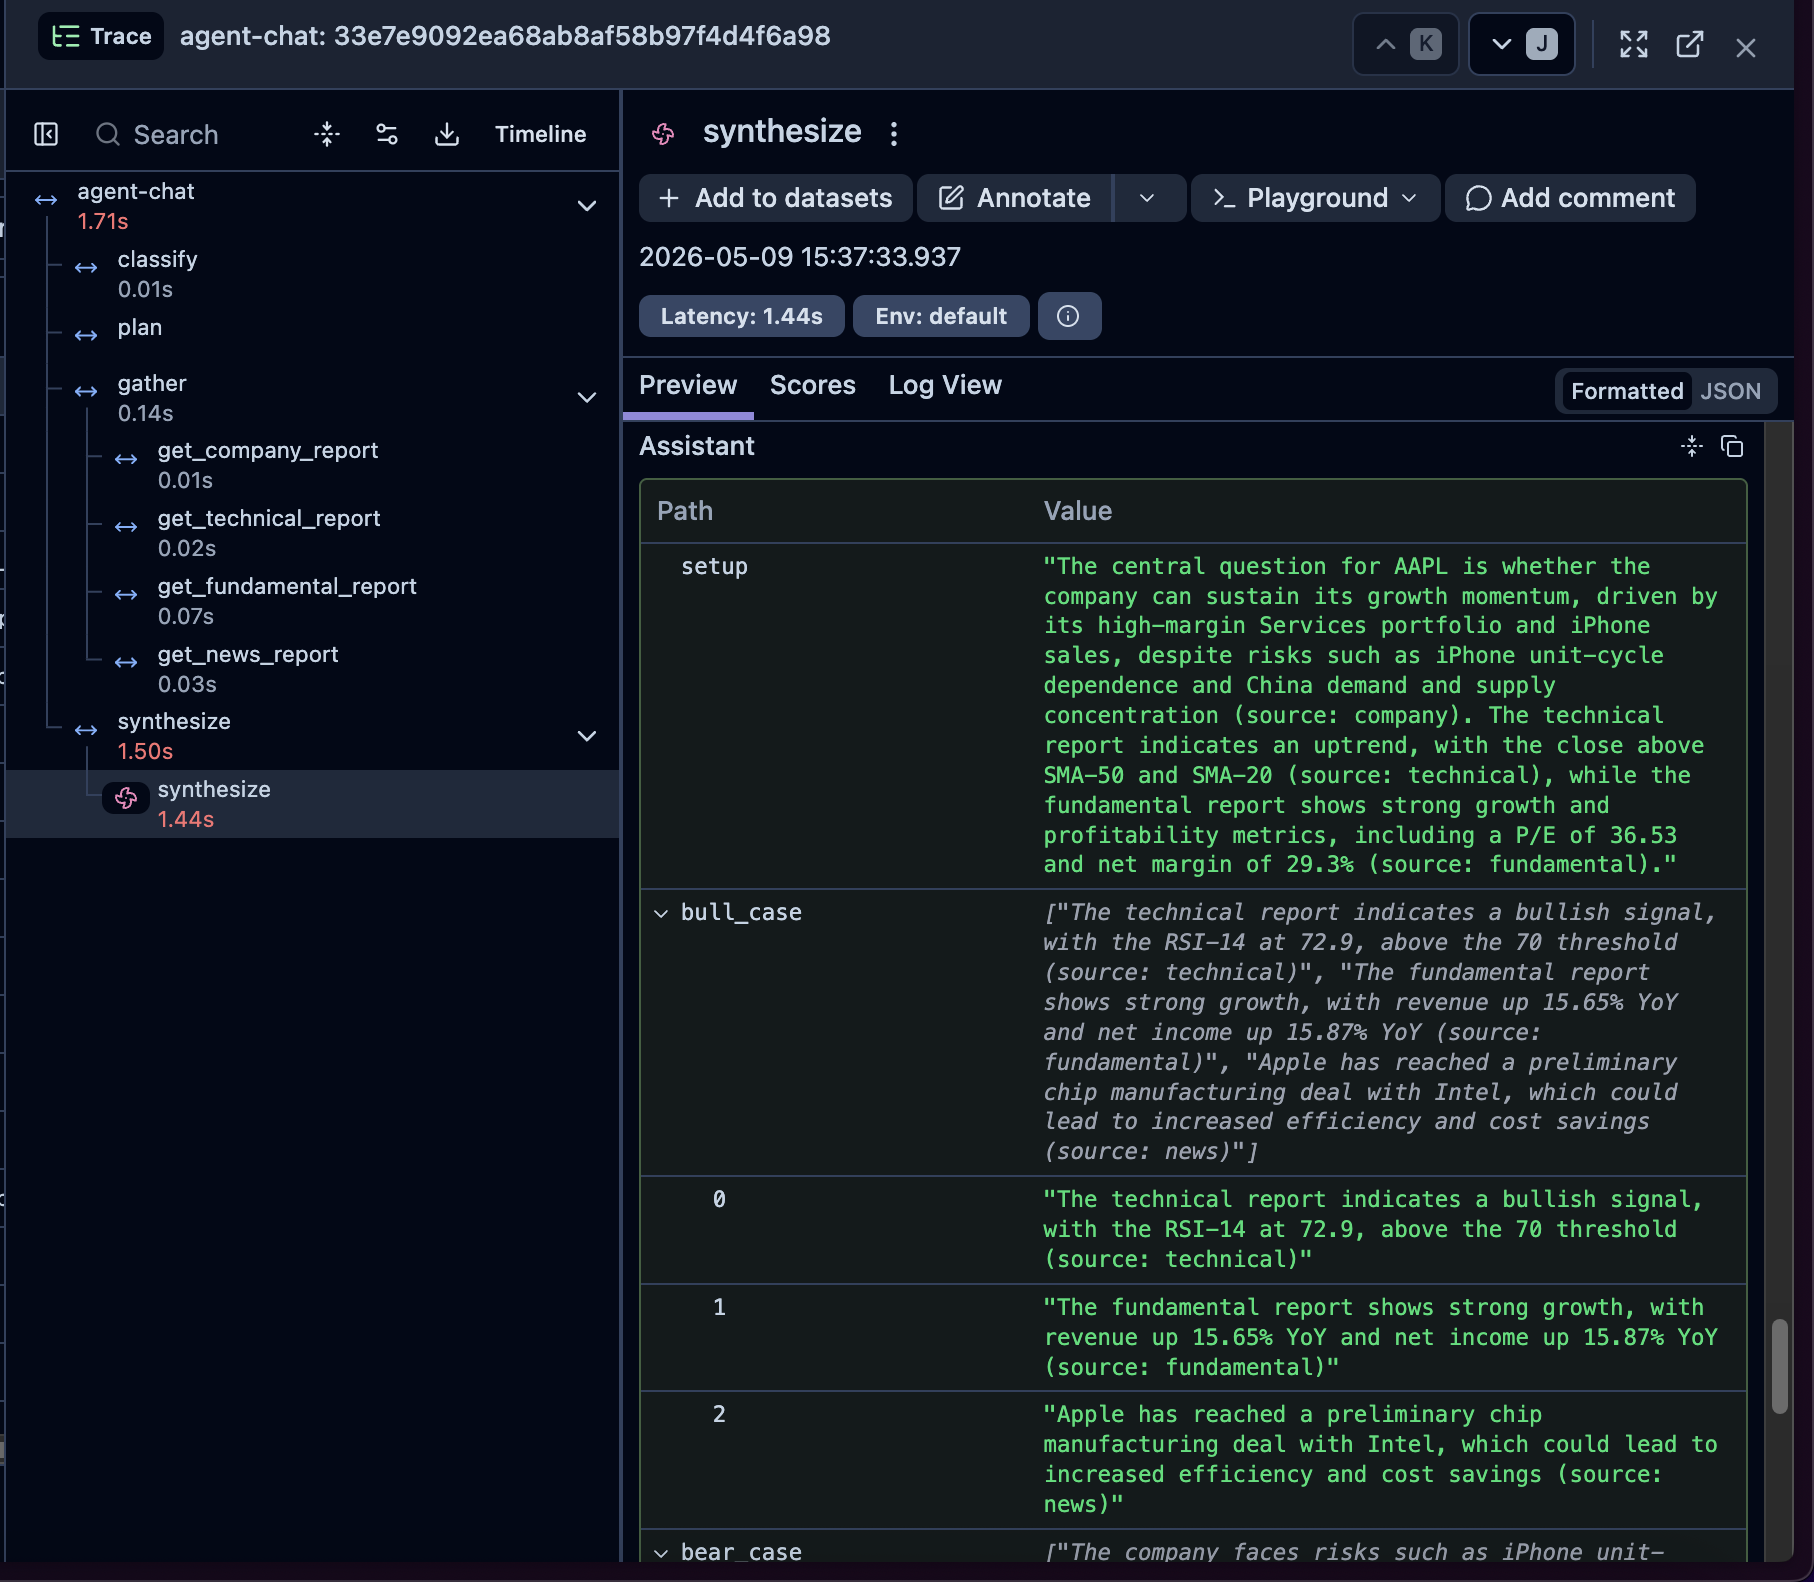
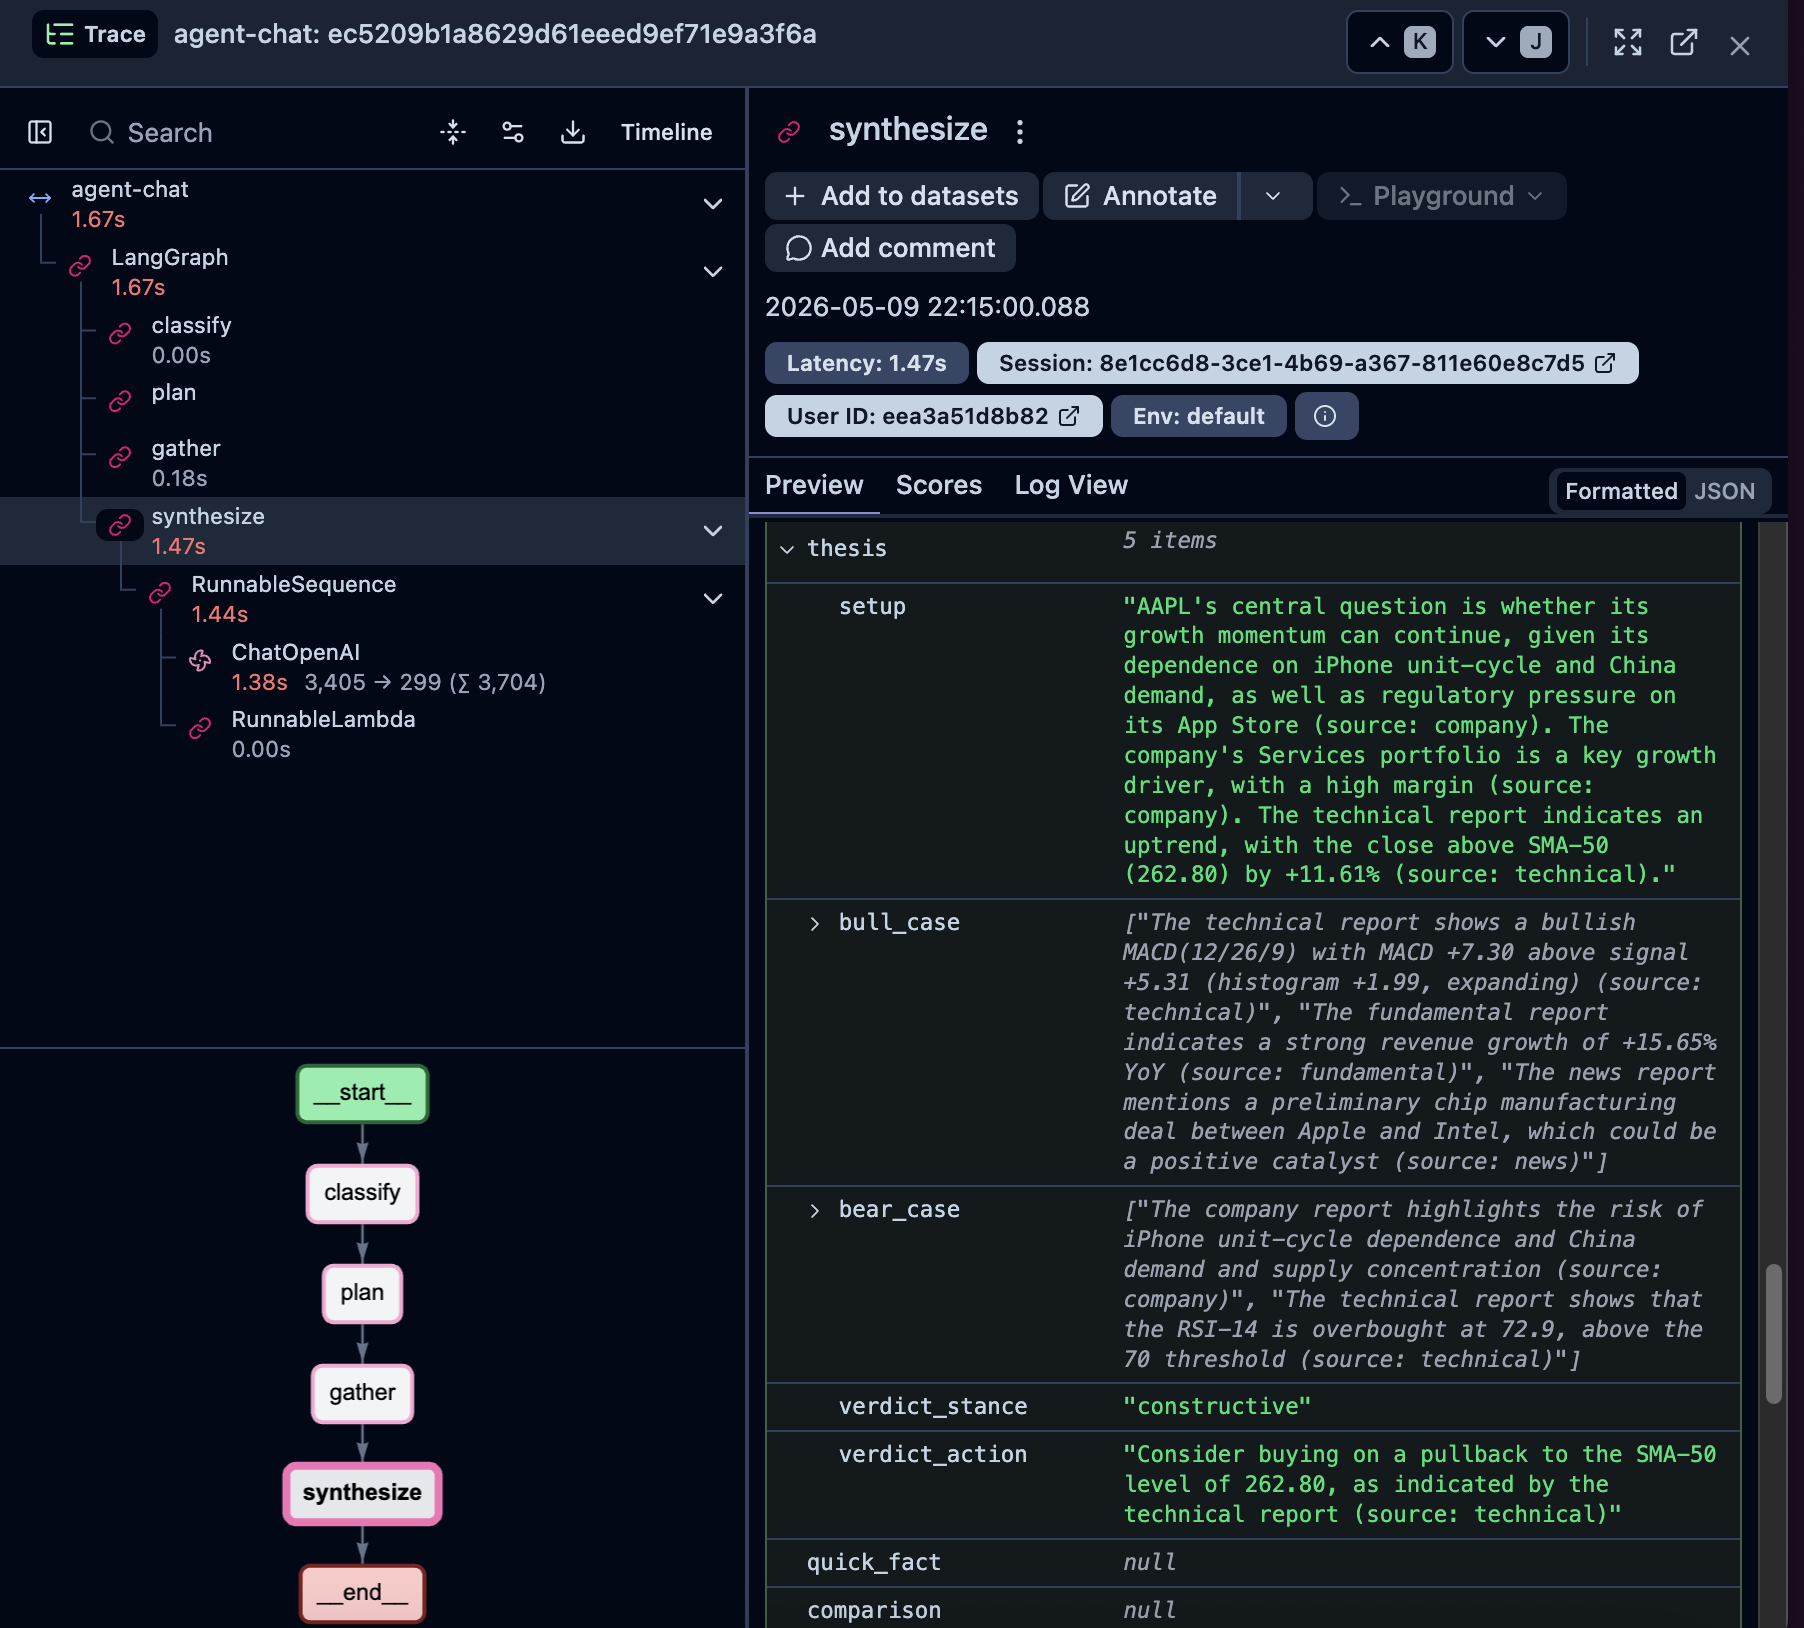
chore: drop LANGFUSE_SAMPLE_RATE + refresh langfuse-trace screenshot (#262)
Follow-up to QNT-181 / ADR-019. PR #259 + the QNT-181 migration already
roughly doubled free-tier headroom (per-chat observations ~12 -> ~6).
The right move for the next billing window is to clear existing traces
in the Langfuse UI and run at full fidelity, not preemptively sample.
Sampling drops debug visibility (1-in-5 traces makes user-complaint
repro hard) for a problem we may not actually have.

- Drop LANGFUSE_SAMPLE_RATE from shared.config + .env.example
- Drop the sample_rate kwarg from Langfuse() construction
- Drop the sample_rate-threading test in test_tracing.py
- ADR-019 records sampling under Alternatives Considered with the
  decision narrative; lever stays a one-line restore when needed

Also folds in a refreshed langfuse-trace.png against the current
trace shape (post-QNT-181, with LangGraph auto-parent visible).

Changed region(s): [[0.0, 0.0, 1.0, 1.0], [0.4656, 0.7124, 0.5277, 0.7434], [0.4656, 0.5575, 0.5277, 0.5885]]

diff --git a/tests/agent/test_tracing.py b/tests/agent/test_tracing.py
@@ -43,7 +43,6 @@ def test_enabled_when_both_keys_present(monkeypatch: pytest.MonkeyPatch) -> None
 
     monkeypatch.setattr(settings, "LANGFUSE_PUBLIC_KEY", "pk-test")
     monkeypatch.setattr(settings, "LANGFUSE_SECRET_KEY", "sk-test")
-    monkeypatch.setattr(settings, "LANGFUSE_SAMPLE_RATE", 1.0)
     monkeypatch.setattr(tracing, "Langfuse", MagicMock(return_value=MagicMock()))
     fake_handler = MagicMock(name="CallbackHandler-instance")
     monkeypatch.setattr(tracing, "CallbackHandler", MagicMock(return_value=fake_handler))
@@ -55,7 +54,6 @@ def test_enabled_when_both_keys_present(monkeypatch: pytest.MonkeyPatch) -> None
         public_key="pk-test",
         secret_key="sk-test",
         base_url=settings.LANGFUSE_BASE_URL,
-        sample_rate=1.0,
     )
 
 
@@ -84,23 +82,6 @@ def test_flush_calls_client_flush_when_enabled(monkeypatch: pytest.MonkeyPatch) 
     monkeypatch.setattr(tracing, "langfuse", fake)
     tracing.flush()
     fake.flush.assert_called_once_with()
-
-
-def test_sample_rate_threaded_through_to_client(monkeypatch: pytest.MonkeyPatch) -> None:
-    """LANGFUSE_SAMPLE_RATE must reach the Langfuse(sample_rate=...) ctor —
-    the prod cost lever depends on it."""
-    from shared.config import settings
-
-    monkeypatch.setattr(settings, "LANGFUSE_PUBLIC_KEY", "pk-test")
-    monkeypatch.setattr(settings, "LANGFUSE_SECRET_KEY", "sk-test")
-    monkeypatch.setattr(settings, "LANGFUSE_SAMPLE_RATE", 0.2)
-    monkeypatch.setattr(tracing, "Langfuse", MagicMock(return_value=MagicMock()))
-
-    tracing._build_client()
-
-    langfuse_ctor = cast(MagicMock, tracing.Langfuse)
-    langfuse_ctor.assert_called_once()
-    assert langfuse_ctor.call_args.kwargs["sample_rate"] == 0.2
 
 
 # ─── Architectural invariant: llm.invoke must carry config= for tracing ─────

diff --git a/packages/shared/src/shared/config.py b/packages/shared/src/shared/config.py
@@ -49,10 +49,6 @@ class Settings(BaseSettings):
     LANGFUSE_PUBLIC_KEY: str = ""
     LANGFUSE_SECRET_KEY: str = ""
     LANGFUSE_BASE_URL: str = "https://us.cloud.langfuse.com"
-    # Trace sampling probability passed to ``Langfuse(sample_rate=...)``.
-    # 1.0 = trace every request (dev / staging); 0.2 = trace 20% (prod cost
-    # control under the 50k/month free tier). 0.0 disables tracing entirely.
-    LANGFUSE_SAMPLE_RATE: float = 1.0
 
     # ─── Alerting (QNT-62 + QNT-101) ─────────────────────────────────────
     # Discord webhook used by docker-events-notify.sh (container die/kill/oom)

diff --git a/packages/agent/src/agent/tracing.py b/packages/agent/src/agent/tracing.py
@@ -35,7 +35,6 @@ def _build_client() -> Langfuse | None:
         public_key=settings.LANGFUSE_PUBLIC_KEY,
         secret_key=settings.LANGFUSE_SECRET_KEY,
         base_url=settings.LANGFUSE_BASE_URL,
-        sample_rate=settings.LANGFUSE_SAMPLE_RATE,
     )
 
 

diff --git a/docs/decisions/019-langfuse-callbackhandler-over-per-node-observe.md b/docs/decisions/019-langfuse-callbackhandler-over-per-node-observe.md
@@ -7,7 +7,7 @@
 
 Phase-5 instrumentation hand-decorated every graph node with `@observe(name=...)` and routed every LLM call through a custom `LangfuseResource.traced_invoke()` wrapper. The wrapper opened an explicit `start_as_current_observation(as_type="generation", ...)` per call, captured prompt / completion / model_name / token usage, and tagged failed spans with `level="ERROR"`. The pattern was internally consistent and let an AST scanner enforce "no raw `llm.invoke()`" at lint time, but it diverged from Langfuse's documented LangGraph integration.
 
-In May 2026 the project hit Langfuse's 50k events / month free-tier ceiling. PR #259 cut volume by env-stripping Langfuse during eval bench runs and dropping `@observe` from the six tool wrappers (HTTP-to-FastAPI calls, not LLM calls). Per-chat observation count dropped from ~12 to ~6. The next structural lever was either to self-host Langfuse on Hetzner (operational surface, ~512 MB extra RAM) or to align with the Langfuse-LangGraph cookbook so we could turn the `sample_rate` knob and tag traces with `session_id` / `user_id` for filterable views.
+In May 2026 the project hit Langfuse's 50k events / month free-tier ceiling. PR #259 cut volume by env-stripping Langfuse during eval bench runs and dropping `@observe` from the six tool wrappers (HTTP-to-FastAPI calls, not LLM calls). Per-chat observation count dropped from ~12 to ~6 — roughly doubling free-tier headroom under the same chat volume. The next structural lever was to align with the Langfuse-LangGraph cookbook so we could tag traces with `session_id` / `user_id` for filterable views, and drop the per-node `@observe` decorator forest in favour of one CallbackHandler at graph entry. (Sampling, the more aggressive cost lever, was considered but deferred — see Alternatives.)
 
 The cookbook pattern is: open a parent trace at the request boundary with `@observe()`, attach a single `CallbackHandler` to the graph at entry via `config={"callbacks": [handler]}`, and let LangGraph propagate the runnable config to every node + every nested LangChain runnable. Generation observations land automatically when each node forwards `config` into its inner `llm.invoke(prompt, config=config)` call.
 
@@ -15,7 +15,7 @@ The cookbook pattern is: open a parent trace at the request boundary with `@obse
 
 Replace the per-node `@observe` decorator forest and the `traced_invoke` wrapper with a single `CallbackHandler` attached at the graph entry point. Concretely:
 
-1. `agent.tracing` shrinks to a thin client + a `make_callback_handler()` factory + re-exports of `observe`, `propagate_attributes`, `get_client` from the Langfuse SDK. `LANGFUSE_SAMPLE_RATE` (default 1.0; prod will set 0.2) is threaded into the `Langfuse(sample_rate=...)` constructor.
+1. `agent.tracing` shrinks to a thin client + a `make_callback_handler()` factory + re-exports of `observe`, `propagate_attributes`, `get_client` from the Langfuse SDK.
 2. Every graph node accepts `(state: AgentState, config: RunnableConfig)`. Inner `llm.invoke()` calls pass `config=config` so the CallbackHandler attached at graph entry propagates through.
 3. The FastAPI `agent_chat._runner` keeps `@observe(name="agent-chat")` as the parent-trace primitive, wraps the `graph.invoke(...)` call with `propagate_attributes(trace_name="agent-chat", session_id=<uuid4>, user_id=sha256(client_ip)[:12])`, and passes `config={"callbacks": [make_callback_handler()]}` to the graph. The CLI `agent.__main__.analyze` follows the same pattern minus session/user tagging (single-shot, no IP).
 4. The architectural invariant moves from "every LLM call goes through `traced_invoke`" to "every LLM call passes `config=` so callbacks propagate". An AST scanner in `tests/agent/test_tracing.py::test_llm_invoke_calls_pass_config_kwarg` enforces it at lint time; a runtime test asserts the kwarg lands on the structured-output stub.
@@ -26,12 +26,13 @@ Net code reduction: `tracing.py` from ~160 to ~68 lines; ~13 `@observe` decorato
 ## Alternatives Considered
 
 * **Keep the per-node `@observe` pattern, sample at the SDK level only.** Cheapest diff, but the structural divergence from the cookbook stays. Future engineers reading the repo would carry the maintenance burden of explaining "why we don't use the documented pattern". Also misses the `propagate_attributes` channel for filterable session/user tags.
-* **Self-host Langfuse on Hetzner.** Free events forever, trades infra cost for an extra container in the obs-smoke gate (~512 MB RAM, another failure surface — `feedback_health_endpoint_is_not_durability.md` is the cautionary tale). Worth doing if `sample_rate=0.2` is still insufficient, not before.
+* **Sampling via `LANGFUSE_SAMPLE_RATE`.** Considered and prototyped during this ticket — `Langfuse(sample_rate=0.2)` would cap incoming events at ~20% of traffic. Reverted before merge: PR #259 + this migration already roughly doubled free-tier headroom (per-chat events ~12 → ~6), and dropping 80% of traces costs real debug visibility on a public demo where any specific user complaint becomes hard to reproduce. Decision: clear existing traces in the Langfuse UI to reset the monthly window, run at full fidelity, and only reintroduce sampling if the next billing window trends past 50k. The lever is a one-line addition to `_build_client` when needed; no point keeping the env var configured against a problem we may not have.
+* **Self-host Langfuse on Hetzner.** Free events forever, trades infra cost for an extra container in the obs-smoke gate (~512 MB RAM, another failure surface — `feedback_health_endpoint_is_not_durability.md` is the cautionary tale). Worth doing if sampling is insufficient, not before.
 * **Move to Langfuse paid tier ($59/mo for 100k events).** Solves the symptom but bypasses the cookbook alignment. Skipped: the cookbook migration is a single-PR diff and unlocks the cost-control knob for free.
 
 ## Consequences
 
-* **Easier**: idiomatic alignment with Langfuse's documented LangGraph pattern; structured-output retries, prompt-template chains, and tool bindings are auto-traced (we currently miss those); session-id and user-id filters work in the Langfuse UI; `sample_rate` is the long-term cost lever; ~130 LoC removed from the tracing layer; future engineers find the pattern in the cookbook instead of having to read our wrapper.
+* **Easier**: idiomatic alignment with Langfuse's documented LangGraph pattern; structured-output retries, prompt-template chains, and tool bindings are auto-traced (we currently miss those); session-id and user-id filters work in the Langfuse UI; ~130 LoC removed from the tracing layer; future engineers find the pattern in the cookbook instead of having to read our wrapper. The `Langfuse(sample_rate=...)` lever is reachable in one line if the next billing window trends past 50k.
 * **Harder**: the AST contract test had to be reframed. The new invariant ("`config` kwarg present") is mechanical to enforce statically but more abstract than "routes through `traced_invoke`". Test fixtures that monkeypatched `langfuse.traced_invoke` migrated to monkeypatching `llm.invoke` directly — straightforward but touched ~10 sites.
 * **One filter-cardinality decision baked in**: per-IP `user_id` is `sha256(client_ip)[:12]`, not the raw IP. The hash is for *stable filter cardinality* in the Langfuse UI ("all traces from this IP" is one filter click) and to keep raw IPs out of observability tooling out of habit, **not** for privacy — there is no auth and no PII in this app, the IP is not sensitive (city-level geo at most, which any HTTP server already logs). An earlier code-review round added an HMAC + `LANGFUSE_USER_ID_PEPPER` setting to make the hash inversion-resistant; we reverted that on a follow-up review pass after agreeing the threat doesn't justify the env-var overhead in an open public-demo. Revisit-when triggers: if login/multi-tenant lands, swap to HMAC + a SOPS-encrypted pepper *before* `user_id` maps to a real identity.
 * **`traced_invoke`'s explicit model-name + token-usage capture is replaced by the CallbackHandler's automatic capture.** The cookbook claims parity; pre-merge smoke trace verifies a chat lands `model_name` + `usage_details` on every generation observation. If a future SDK update breaks parity, we'd add `metadata={"model": ...}` at the LangChain LLM constructor as the workaround.
@@ -42,4 +43,4 @@ Net code reduction: `tracing.py` from ~160 to ~68 lines; ~13 `@observe` decorato
 * Langfuse-LangGraph cookbook: `https://langfuse.com/guides/cookbook/example_langgraph_agents`
 * Langfuse-LangChain integration docs: `https://langfuse.com/integrations/frameworks/langchain` (covers `propagate_attributes` + `CallbackHandler` parent-trace pattern)
 * Predecessor: PR #259 (Tier-1 cuts: env-strip evals + drop tool `@observe`)
-* Memory: `feedback_quality_before_capacity_in_fallback.md` (selection-by-quality first, capacity second — sample_rate is the right capacity lever post-quality-pass)
+* Memory: `feedback_quality_before_capacity_in_fallback.md` (selection-by-quality first, capacity second — sampling is the right capacity lever after the structural cuts in PR #259 + this migration, but only reach for it if/when actually needed)
